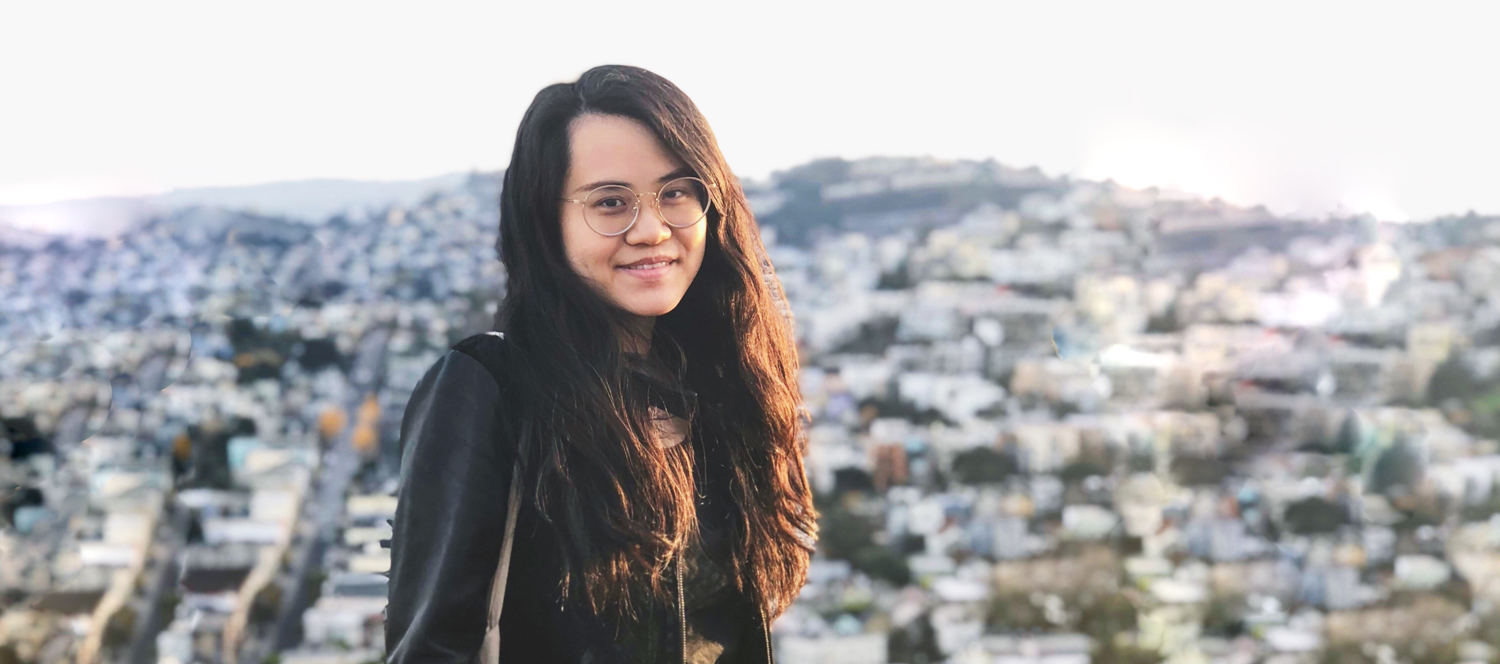
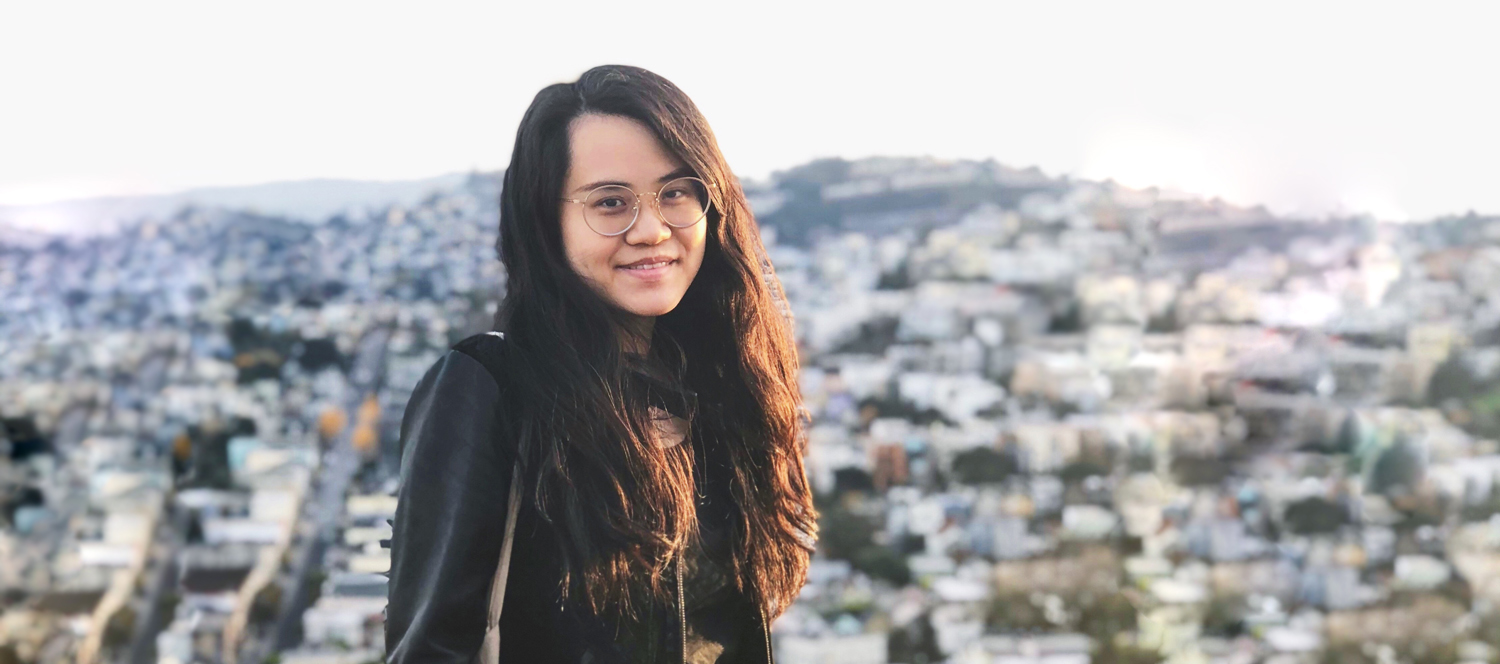
update about

Changed region(s): [[0.6747, 0.4518, 0.7667, 0.5422], [0.1227, 0.3614, 0.2147, 0.4518], [0.0613, 0.3012, 0.1227, 0.4217]]

diff --git a/about.html b/about.html
@@ -59,16 +59,16 @@
    <main class="main" role="main">
     <section class="project-content">
 
-    <img src="projects/about/portrait_1.jpg" alt="portrait" class="headerimg"/>
+    <img src="projects/about/portrait_lowres.jpg" alt="portrait" class="headerimg"/>
 
       <div class="text wrap">
           <div class="textcontainer">
 
           <h1 class="abouttitle">I am a designer and cat stalker</h1>
-          <p class="p_container">As a UX designer, I draw on my art and design background to emphathize with how humans perceive an experience visually and emotionally. I aim to understand humans deeply to improve human lives, creating experiences that not only add efficiency and value, but are delightful to use.</p><br />
+          <p class="p_container">As a UX designer, I draw on my art and design background to empathize with how humans perceive an experience visually and emotionally. I aim to understand humans deeply to improve human lives, creating experiences that not only add efficiency and value, but are delightful to use.</p><br />
 
           <p class="p_container">
-         Before I transitioned to UX, I worked as a graphic designer at the intersection of visual design and technology, merging my creative and technical side as I translated print into digitally interactive mediums. Working between print and digital exposed me to the limitations of static design tools in an increasingly digital and dynamic world, inspiring me to become a UX designer.</p><br />
+         Before I transitioned to UX, I worked as a graphic designer at the intersection of visual design and technology, merging my creative and technical side as I translated print into digitally interactive mediums. Working between print and digital exposed me to the limitations of static design tools in an increasingly dynamic world, inspiring me to become a UX designer.</p><br />
           
         <p class="p_container">      
       I made this portfolio with love, showcasing my interest for whimsical designs, technology, hand-lettering, and books. I designed and coded this website, which is hosted through <a href="https://github.com/sandytsai" target="_blank">Github</a>. My website header and thank you graphic is hand-lettered, and I created and photographed all the artwork unless stated otherwise.  </p>
